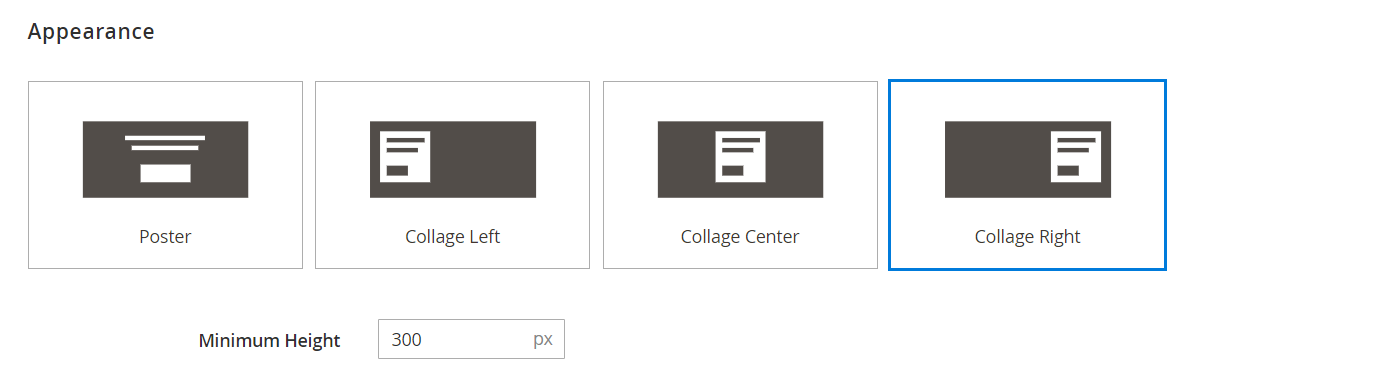
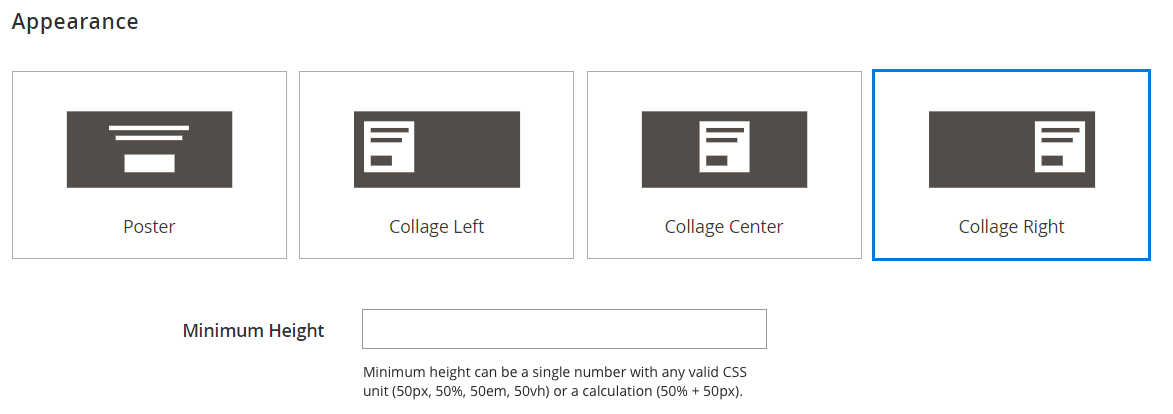
PB-382: User guides for full-height feature (#50)
* PB-382: User guides for full-height feature

Updated existing topics to include new feature

* PB-382: User guides for full-height feature

Fixed callout for slide minimum height

* PB-382: User guides for full-height feature

Fixed image width

* PB-382: User guides for full-height feature

Fixed image widths

diff --git a/src/cms/page-builder-media-slider.md b/src/cms/page-builder-media-slider.md
@@ -47,9 +47,9 @@ _Slider in Storefront_
     ![]({% link images/images-ee/page-builder-media-slider-name-buy3-get1free.png %}){: .zoom}
     _Slide Name In Navigation_
 
-1. Enter the **Minimum Height** of the slide in pixels.
+1. Enter the **Minimum Height** for the slide. The minimum height can be a number with any valid CSS unit (such as 100px, 50%, 50em, 100vh) or a calculation (such as 100vh - 237px).
 
-    The minimum height of the slide in this example is the default 300 pixels.
+   For example, you can set the minimum height of a slide to stretch the full-height of the page, giving you compelling options for full-page background images and videos.
 
 ### Background Color
 
@@ -125,7 +125,7 @@ _Background Color_
 
     If you want to repeat the background image, set **Background Repeat** to `Yes`.
 
-### Slider Content
+### Slide Content
 
 1. In the **Content** section, enter the **Message Text** that you want to appear with the slide.
 
@@ -353,9 +353,11 @@ If you want a title above the slider, simply add a Text content type above the s
         ![]({% link images/images-ee/page-builder-media-slider-settings-show-arrows-dots.png %}){: .zoom}
         _Show Arrows and Dots_
 
-    - Enter the **Minimum Height** of the slider in pixels.
+      - Enter the **Minimum Height** for the slide. The minimum height can be a number with any valid CSS unit (such as 100px, 50%, 50em, 100vh) or a calculation (such as 100vh - 237px).
 
-        ![]({% link images/images-ee/page-builder-media-slider-settings-minimum-height.png %}){: .zoom}
+        For example, you can set the minimum height of a slider to stretch the full-height of the page, giving you compelling options for full-page background images and videos.
+
+        ![]({% link images/images-ee/page-builder-media-slider-settings-minimum-height.png %}){: width="400px"}{: .zoom}
         _Minimum Height_
 
 1. Complete the remaining slider settings as needed, using the [descriptions](#slider-settings) at the bottom of this page for reference.
@@ -402,7 +404,10 @@ If you want a title above the slider, simply add a Text content type above the s
 |--- |--- |
 |Appearance|Determines the slider layout. Options: <br/>**Poster** - Centers content and button on the slide. The overlay, if used, extends the full width of the slide. <br/>**Collage Left** - Places content and button in a defined area on the left side of the slide. The overlay, if used, covers only the defined area. <br/>**Collage Center** - Places content and button in a defined area that is centered on the slide. The overlay, if used, covers only the defined area. <br/>**Collage Right** - Places content and button in a defined area on the right side of the slide. The overlay, if used, covers only the defined area.|
 |Slide Name|Specifies a name for the slide.|
-|Minimum Height|Specifies the minimum height of the slide in pixels.|
+|Minimum Height|Specifies the minimum height of the slide using any CSS unit (200px, 100vh, 45em, 50%) or calculation between units (100vh - 237px). For example, you can set the slide's minimum height to cover the full-height of the page, then use background images and videos for compelling design options.|
+
+{:.bs-callout-info}
+When the slide is set to the full-height of the page (100vh), the slider that contains the slide also stretches the full height of the page to accommodate the height of the slide.
 
 ### Background
 
@@ -450,7 +455,7 @@ If you want a title above the slider, simply add a Text content type above the s
 | Infinite Loop  | Determines if the slide show replays from the beginning after the last slide. Options: <br/>**Yes** - The slide show replays indefinitely while the page is open. <br/>**No** - The slide show plays only once.                                                                                                                            |
 | Show Arrows    | Determines if each slide includes _next_ and _previous_ navigation arrows on the left and right side of each slide. Options: <br/>**Yes** - Navigation arrows appear on the left and right side of each slide. <br/>**No** - The slides do not have navigation arrows.                                                                     |
 | Show Dots      | Determines if the slider includes navigation dots below the slides. Options: <br/>**Yes** - Navigation dots appear at the bottom of the slider. <br/>**No** - The slider does not include navigation dots.                                                                                                                                 |
-| Minimum Height | Specifies the minimum height of the slider in pixels.                                                                                                                                                                                                                                                                    |
+| Minimum Height | Specifies the minimum height of the slider using any CSS unit (200px, 100vh, 45em, 50%) or calculation between units (100vh - 237px). For example, you can set the slider's minimum height to cover the full-height of the page, then use background images and videos for compelling design options. |
 
 ### Advanced
 

diff --git a/src/cms/page-builder-layout-row.md b/src/cms/page-builder-layout-row.md
@@ -27,6 +27,21 @@ _Row Toolbox_
       ![]({% link images/images-ee/page-builder-tutorial1-row-settings-appearance.png %}){: .zoom}
       _Appearance_
 
+   **Layout**
+
+   - Enter the **Minimum Height** for the row. This value can be a number with any valid CSS unit (such as 100px, 50%, 50em, 100vh) or a calculation (such as 100vh - 237px).
+
+      For example, you can set the minimum height of a row to stretch the full-height of the page, giving you compelling options for full-page background images and videos.
+
+   - Choose one of the following **Vertical Alignment** settings to align any content containers that are added to the row:
+
+     - Top
+     - Center
+     - Bottom
+
+      ![]({% link images/images-ee/page-builder-row-layout.png %}){: width="400px"}{: .zoom}
+      _Layout Settings_
+
    **Background Color**
 
    1. Use one of the following methods to set the background color:
@@ -107,21 +122,6 @@ _Row Toolbox_
 
       ![]({% link images/images-ee/page-builder-settings-parallax-background.png %}){: .zoom}
       _Parallax Background_
-
-   **Layout**
-
-   - Enter the **Minimum Height** of the row in pixels.
-
-      For example, you might set Minimum Height to match the height of a background image to ensure that the full image is visible.
-
-   - Choose one of the following **Vertical Alignment** settings to align any content containers that are added to the row:
-
-     - Top
-     - Center
-     - Bottom
-
-      ![]({% link images/images-ee/page-builder-row-layout.png %}){: .zoom}
-      _Layout Settings_
 
    **Advanced**
 
@@ -206,7 +206,7 @@ _Row Toolbox_
 |Background Attachment|Determines how the background image moves in relation to the scrolling page. Options: <br/>**Scroll** - The background image is synchronized to move down as the page scrolls. Use Parallax Background to control the scrolling speed.<br/>**Fixed** - (Not available for mobile) The background image does not move as the container scrolls over the image and is fixed at the specified background position.|
 |Background Repeat|Determines if the background image is repeated. Options: <br/>**Yes** - The background image is repeated to fill the available space. <br/>**No** - Uses only a single instance of the background image.|
 |Parallax Background|Determines the speed of a scrolling background image in relation to the scrolling of the page. The background can be set to scroll more slowly to create a sense of immersion. Options: <br/>**Enable Parallax Background** - Enables parallax scrolling of the background image. <br/>**Parallax Speed** - Determines how fast the background image moves in relation to page scrolling. Accepts values in the range of `-1.0` to `2.0`.|
-|Layout|Determines the minimum height and vertical alignment of the row. Options: <br/>**Minimum Height** - Determines the minimum height of the row. For example, you might set the minimum height to match the height of a background image to ensure that the full image is visible. <br/>**Vertical Alignment** - Determines the vertical position of content containers that are added to the row.|
+|Layout|Determines the minimum height and vertical alignment of the row. Options: <br/>**Minimum Height** - Determines the minimum height of the row using any CSS unit (px, vh, em, %) or calculation between units (100vh - 237px). For example, you can set the minimum height to cover the full-height of the page to create background images and videos that fill the entire page.<br/>**Vertical Alignment** - Determines the vertical position of content containers that are added to the row.|
 
 ### Advanced
 

diff --git a/src/cms/page-builder-media-banner.md b/src/cms/page-builder-media-banner.md
@@ -43,6 +43,10 @@ Under **Appearance**, choose one of the following settings:
 ![]({% link images/images-ee/page-builder-tutorial1-row-banner-settings-appearance-collage-right.png %}){: .zoom}
 _Appearance_
 
+Enter the **Minimum Height** for the row. The minimum height can be a number with any valid CSS unit (such as 100px, 50%, 50em, 100vh) or a calculation (such as 100vh - 237px).
+
+For example, you can set the minimum height of a banner to stretch the full-height of the page, giving you compelling options for full-page background images and videos.
+
 ### Background Color
 
 Use one of the following methods to set the background color:
@@ -277,7 +281,7 @@ You can use an overlay to apply a background color to the active content area th
 |Setting|Description|
 |--- |--- |
 |Appearance|Determines the banner layout. Options: <br/>**Poster** - Centers content and button on the banner. The overlay, if used, extends the full width of the banner. <br/>**Collage Left** - Places content and button in a defined area on the left side of the banner. The overlay, if used, covers only the defined area. <br/>**Collage Center** - Places content and button in a defined area that is centered on the banner. The overlay, if used, covers only the defined area. <br/>**Collage Right** - Places content and button in a defined area on the right side of the banner. The overlay, if used, covers only the defined area.|
-|Minimum Height|Specifies the minimum height of the banner in pixels.|
+|Minimum Height | Specifies the minimum height of the banner using any CSS unit (200px, 100vh, 45em, 50%) or calculation between units (100vh - 237px). For example, you can set the banner's minimum height to cover the full-height of the page, then use background images and videos for compelling design options. |
 
 ### Background
 
